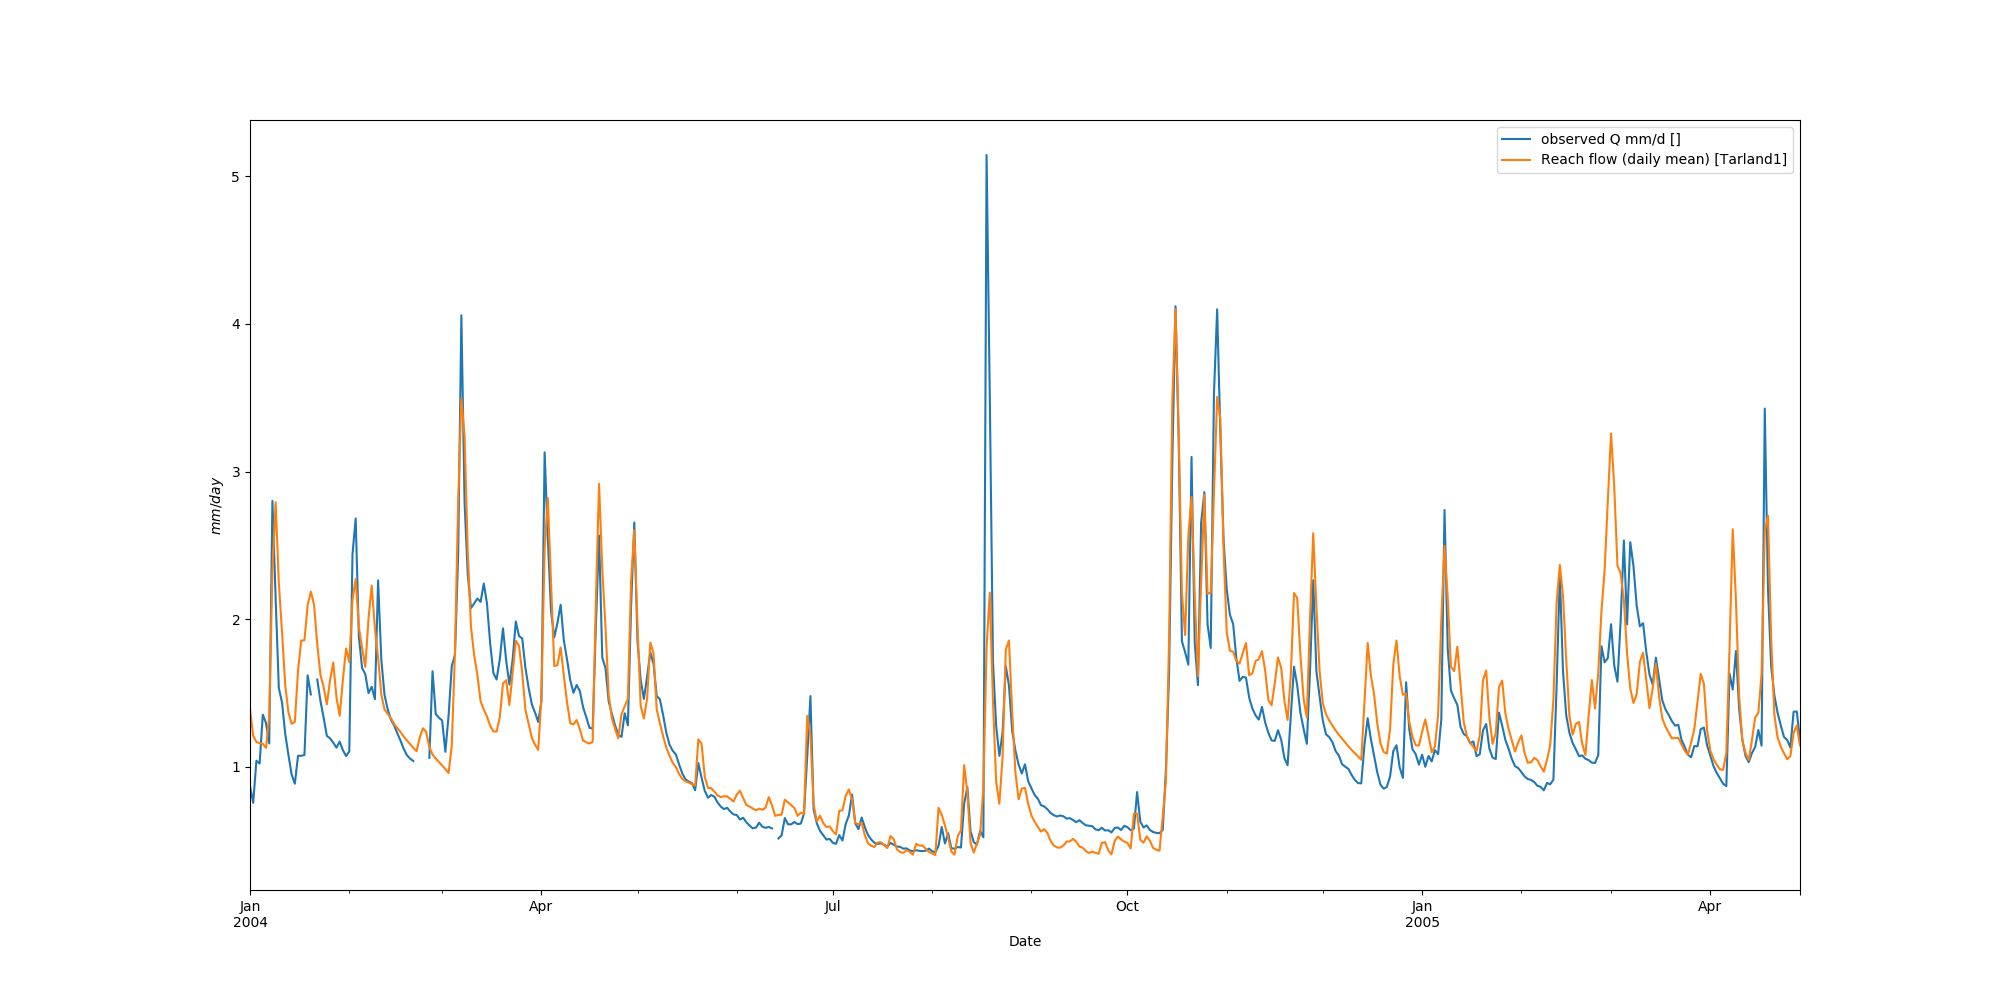
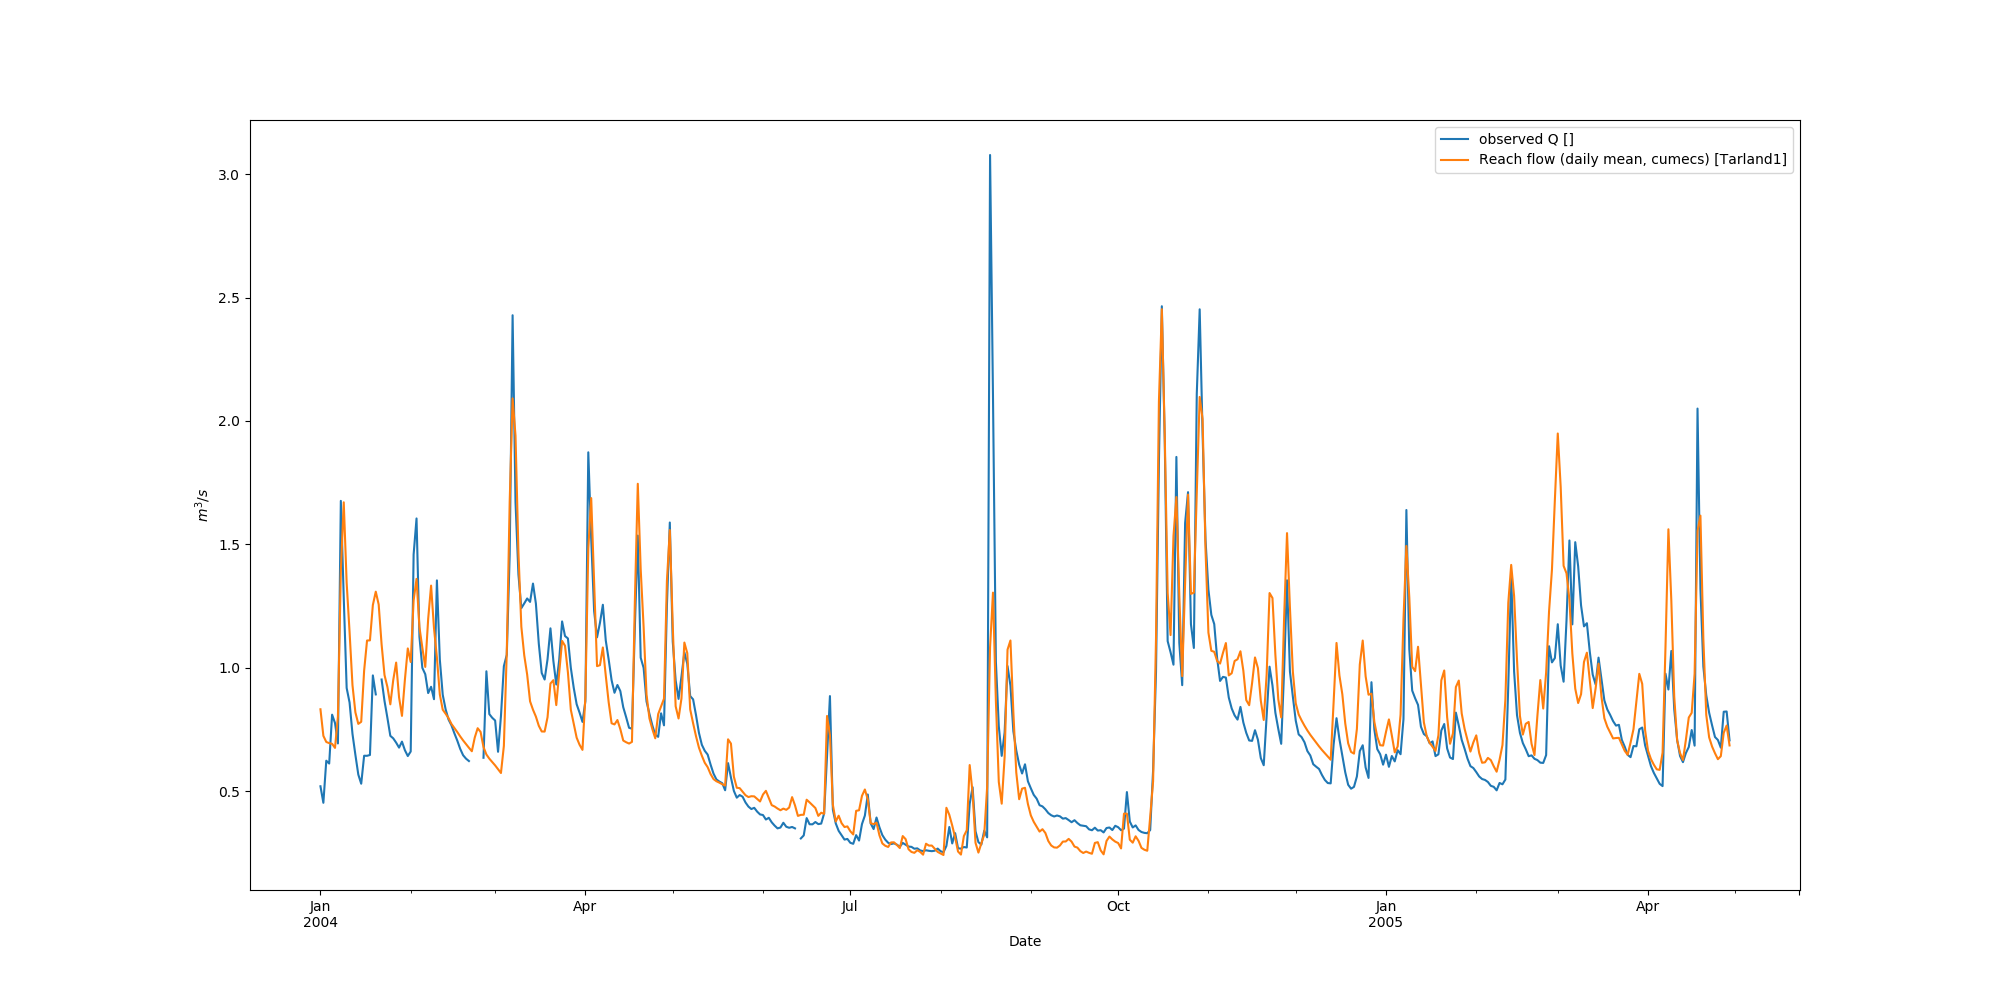
Added print_goodness_of_fit function to inca_calibration.py and added possibility to get equation list

diff --git a/PythonWrapper/inca.py b/PythonWrapper/inca.py
@@ -98,6 +98,11 @@ def initialize(dllname) :
 	incadll.DllGetAllParametersCount.restype = ctypes.c_uint64
 	
 	incadll.DllGetAllParameters.argtypes = [ctypes.c_void_p, ctypes.POINTER(ctypes.c_char_p), ctypes.POINTER(ctypes.c_char_p)]
+	
+	incadll.DllGetAllResultsCount.argtypes = [ctypes.c_void_p]
+	incadll.DllGetAllResultsCount.restype = ctypes.c_uint64
+	
+	incadll.DllGetAllResults.argtypes = [ctypes.c_void_p, ctypes.POINTER(ctypes.c_char_p), ctypes.POINTER(ctypes.c_char_p)]
 
 def _CStr(string):
 	return string.encode('utf-8')   #TODO: We should figure out what encoding is best to use here.
@@ -478,7 +483,7 @@ class DataSet :
 		
 	def get_parameter_list(self) :
 		'''
-		Get the name of all the parameters in the model as a list of strings, each string being the name of a parameter.
+		Get the name of all the parameters in the model as a list of pairs of strings, each string being the name of a parameter and its type.
 		'''
 		num = incadll.DllGetAllParametersCount(self.datasetptr)
 		check_dll_error()
@@ -488,5 +493,15 @@ class DataSet :
 		check_dll_error()
 		return [(name.decode('utf-8'), type.decode('utf-8')) for name, type in zip(namearray, typearray)]
 		
-		
+	def get_equation_list(self) :
+		'''
+		Get the name of all the equations in the model as a list of pairs of strings, each string being the name of a equation and its type.
+		'''
+		num = incadll.DllGetAllResultsCount(self.datasetptr)
+		check_dll_error()
+		namearray = (ctypes.c_char_p * num)()
+		typearray = (ctypes.c_char_p * num)()
+		incadll.DllGetAllResults(self.datasetptr, namearray, typearray)
+		check_dll_error()
+		return [(name.decode('utf-8'), type.decode('utf-8')) for name, type in zip(namearray, typearray)]
 		

diff --git a/PythonWrapper/simplyp_optimize.py b/PythonWrapper/simplyp_optimize.py
@@ -18,8 +18,7 @@ calibration = [
 	('Soil water time constant',                                   ['Arable']),
 	('Soil water time constant',                                   ['Semi-natural']),
 	]
-
-
+	
 initial_guess = default_initial_guess(dataset, calibration)    #NOTE: This reads the initial guess that was provided by the parameter file.
 initial_guess.append(0.5)
 
@@ -30,8 +29,7 @@ constrain_min_max(dataset, calibration, min, max) #NOTE: Constrain to the min an
 
 skiptimesteps = 50   # Skip these many of the first timesteps in the objective evaluation
 
-objective = (log_likelyhood, 'Reach flow (daily mean)', ['Tarland1'], 'observed Q mm/d', [], skiptimesteps)
-
+objective = (log_likelyhood, 'Reach flow (daily mean, cumecs)', ['Tarland1'], 'observed Q', [], skiptimesteps)
 
 param_est = run_optimization(dataset, min, max, initial_guess, calibration, objective, minimize=False)
 #param_est = param_est[0]
@@ -55,8 +53,9 @@ print_matrix(inv_hess)
 set_values(dataset, param_est, calibration)
 dataset.write_parameters_to_file('optimal_parameters.dat')
 
-# NOTE: Run the model one more time with the optimal parameters and plot them
+# NOTE: Run the model one more time with the optimal parameters to get the correct values in the dataset, the print goodness of fit and plot.
 dataset.run_model()
+print_goodness_of_fit(dataset, objective)
 plot_objective(dataset, objective, "simplyp_plots\\optimizer_MAP.png")
 
 

diff --git a/PythonWrapper/inca_calibration.py b/PythonWrapper/inca_calibration.py
@@ -5,7 +5,7 @@ import numdifftools as nd
 from scipy.stats import norm
 import pandas as pd
 import datetime as dt
-import dlib
+#import dlib
 
 #from emcee.utils import MPIPool
 
@@ -131,6 +131,33 @@ def plot_objective(dataset, objective, filename):
 	ax = df.plot(figsize=(20,10))
 	ax.set_ylabel('$%s$' % unit)
 	ax.figure.savefig(filename)
+	
+def print_goodness_of_fit(dataset, objective):
+	
+	#TODO: Could probably factor the computation and printout into different functions.
+	
+	fn, simname, simindexes, obsname, obsindexes, skiptimesteps = objective
+
+	sim = dataset.get_result_series(simname, simindexes)
+	obs = dataset.get_input_series(obsname, obsindexes, alignwithresults=True)
+	
+	residuals = sim - obs
+	nonnan = np.count_nonzero(~np.isnan(residuals))
+	
+	bias = np.nansum(residuals) / nonnan
+	meanabs = np.nansum(np.abs(residuals)) / nonnan
+	sumsquare = np.nansum(np.square(residuals))
+	meansquare = sumsquare / nonnan
+	
+	meanob = np.nansum(obs) / nonnan
+	
+	nashsutcliffe = 1 - sumsquare / np.nansum(np.square(obs - meanob))
+	
+	print('Goodness of fit for %s [%s] vs %s [%s]:' % (simname, ', '.join(simindexes), obsname, ', '.join(obsindexes)))
+	print('Mean error (bias): %f' % bias)
+	print('Mean absolute error: %f' % meanabs)
+	print('Mean square error: %f' % meansquare)
+	print('Nash-Sutcliffe coefficient: %f' % nashsutcliffe)
 	
 	
 	

diff --git a/PythonWrapper/python_wrapper.h b/PythonWrapper/python_wrapper.h
@@ -535,4 +535,33 @@ DllGetAllParameters(void *DataSetPtr, const char **NamesOut, const char **TypesO
 	CHECK_ERROR_END
 }
 
+DLLEXPORT u64
+DllGetAllResultsCount(void *DataSetPtr)
+{
+	CHECK_ERROR_BEGIN
+	
+	inca_data_set *DataSet = (inca_data_set *)DataSetPtr;
+	return (u64)(DataSet->Model->FirstUnusedEquationHandle - 1);
+	
+	CHECK_ERROR_END
+	
+	return 0;
+}
+
+DLLEXPORT void
+DllGetAllResults(void *DataSetPtr, const char **NamesOut, const char **TypesOut)
+{
+	CHECK_ERROR_BEGIN
+	
+	inca_data_set *DataSet = (inca_data_set *)DataSetPtr;
+	for(size_t Idx = 0; Idx < DataSet->Model->FirstUnusedEquationHandle - 1; ++Idx)
+	{
+		entity_handle Handle = Idx + 1;
+		const equation_spec &Spec = DataSet->Model->EquationSpecs[Handle];
+		NamesOut[Idx] = Spec.Name;
+		TypesOut[Idx] = GetEquationTypeName(Spec.Type);
+	}
+	
+	CHECK_ERROR_END
+}
 

diff --git a/inca_data_set.cpp b/inca_data_set.cpp
@@ -1068,6 +1068,12 @@ GetResultSeries(inca_data_set *DataSet, const char *Name, const char* const* Ind
 	
 	equation_h Equation = GetEquationHandle(Model, Name);
 	
+	const equation_spec &Spec = Model->EquationSpecs[Equation.Handle];
+	if(Spec.Type == EquationType_InitialValue)
+	{
+		INCA_FATAL_ERROR("ERROR: Can not get the result series of the equation " << Name << ", which is an initial value equation." << std::endl);
+	}
+	
 	size_t StorageUnitIndex = DataSet->ResultStorageStructure.UnitForHandle[Equation.Handle];
 	std::vector<storage_unit_specifier> &Units = DataSet->ResultStorageStructure.Units;
 	std::vector<index_set_h> &IndexSets = Units[StorageUnitIndex].IndexSets;

diff --git a/inca_model.h b/inca_model.h
@@ -123,6 +123,14 @@ enum equation_type
 	EquationType_Cumulative,
 };
 
+inline const char *
+GetEquationTypeName(equation_type Type)
+{
+	//NOTE: It is important that this matches the above enum:
+	const char *Typenames[4] = {"basic", "ode", "initialvalue", "cumulative"};
+	return Typenames[(size_t)Type];
+}
+
 //TODO: See if we could unionize some of the data below. Not everything is needed by every type of equation.
 struct equation_spec
 {
